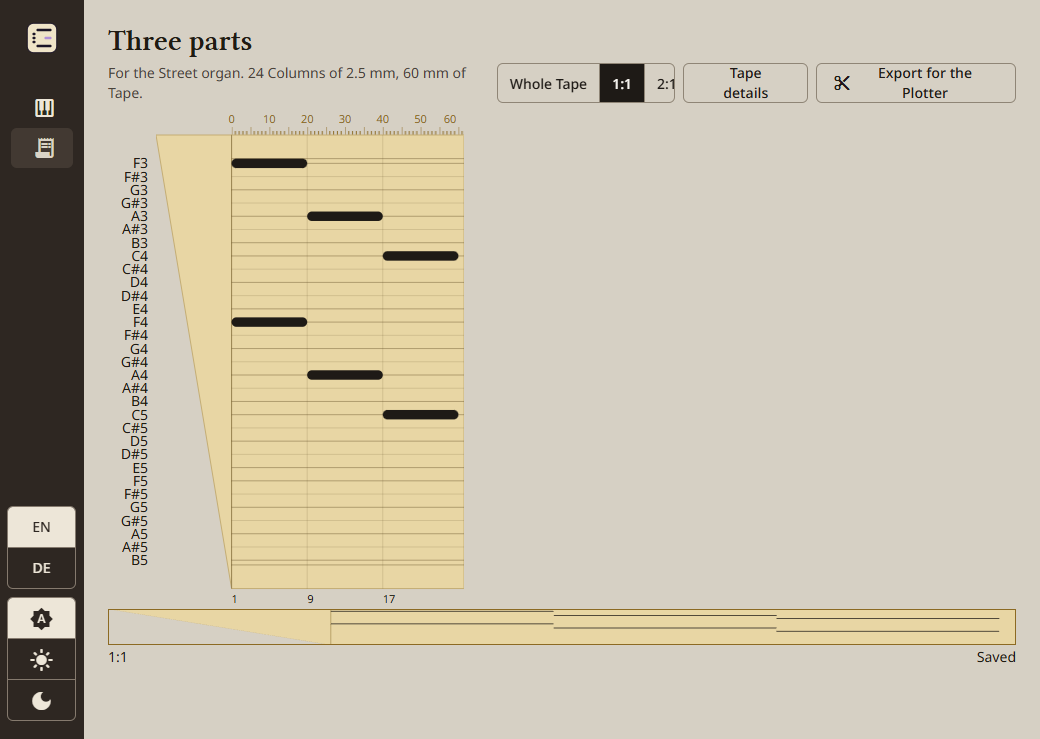
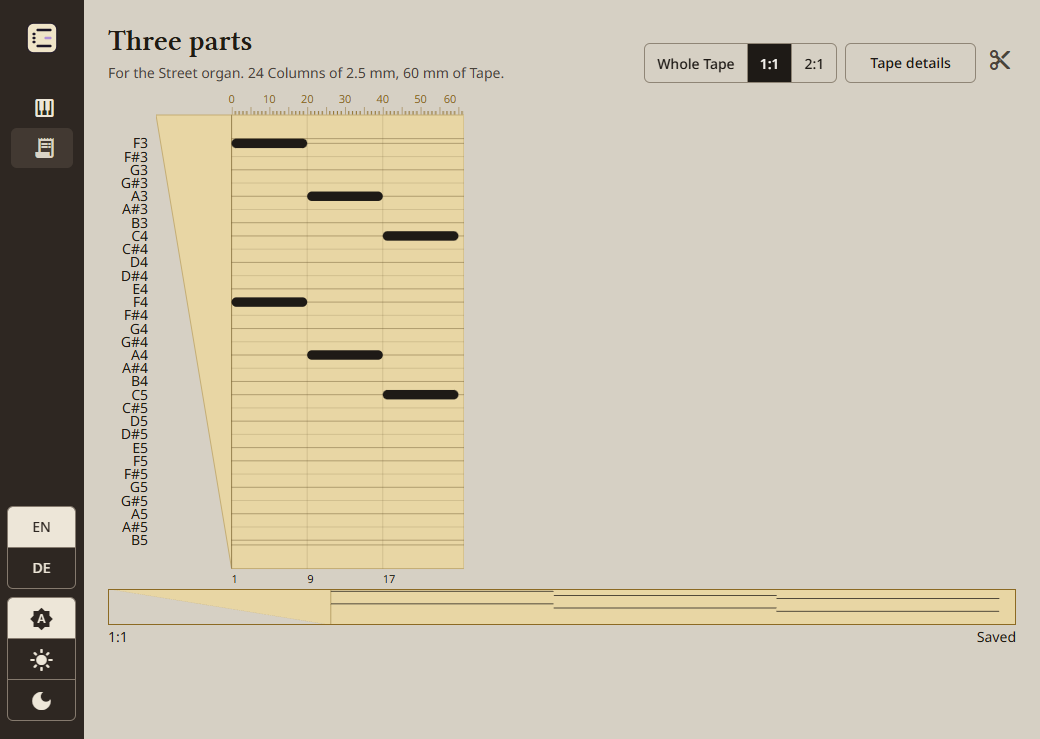
docs(design): ux-review after 003 with the problems dialog: 40/50

diff --git a/documentation/design/screens/current/ux-review.md b/documentation/design/screens/current/ux-review.md
@@ -1,10 +1,12 @@
 # UX review: running app, screens/current (2026-10-17, after #69)
 
-Previous: 38/50 (after #66), 36/50 (after #65), 36/50 (after #64), 33/50 (after #63), 30/50 (after #62), 29/50 (before #62)
+Previous: 39/50 (after 003 US1-US3), 38/50 (after #66), 36/50 (after #65), 36/50 (after #64), 33/50 (after #63), 30/50 (after #62), 29/50 (before #62)
 
 | H1 | H2 | H3 | H4 | H5 | H6 | H7 | H8 | H9 | H10 | Total |
 |----|----|----|----|----|----|----|----|----|-----|-------|
-| 4  | 5  | 4  | 4  | 4  | 3  | 3  | 3  | 4  | 5   | 39/50 |
+| 4  | 5  | 4  | 4  | 5  | 3  | 3  | 3  | 4  | 5   | 40/50 |
+
+After 003 findings 12 and 13 (re-run 2026-10-17; new screen 08c, 14 re-checked): 40/50. H5 gains one: the export problems dialog (08c) says what is wrong in the Tape's own words ("C4 at Column 1: the Hole is 2.5 mm long, the Minimum Hole Length is 4 mm"), blocks the save dialog and offers one Close; and below 1180 px the Plotter export is a scissors icon button that keeps the head on one line (14). H8 stays: the icon-only export has a tooltip but no visible label. Findings 12 and 13 are resolved; finding 4 shows again in 08c (the "Organ saved" snackbar floats over the dialog's page). The dialog does not yet say how to fix the Tape (restore the Organ's hole diameter or bring the Song onto a new Tape), a minor gap, no defect.
 
 After 003 US1-US3 (Tape view with the Lead-in diagonal, the Lead-in row in Tape details, enabled "Export for the Plotter"; re-run 2026-10-17): score unchanged at 39/50. The diagonal Lead-in reads well in 08, 14 and 15 and Lead-in 20 mm appears in the details; the Plotter export is a clear secondary-style head button. No screenshot exists for the export problems dialog, so it is not scored. New findings 11 to 13 below.
 
@@ -24,8 +26,8 @@ After #66 (Organ and Tape lists as ledgers: Tape Bed miniature and facts line, T
 9. **[sev 2] H8 - 12, 13, 14** - The compact rail has icon-only nav and stacked toggles without visible labels; disabled Save and the "Saved on this computer" note are low contrast. Tag: new.
 10. **[sev 1] H3 - 13** - At 1024x700 the second Pipe rack column is clipped at the right edge. Tag: new.
 11. **[sev 2] H6 - 08, 14, 15** - The drawing shows no end cut: the Tape ends in a plain straight edge after Column 24, and the Lead-in diagonal has no label in the drawing. Fix: draw the end cut (and a "Lead-in 20 mm" label) so the drawing matches what the Plotter cuts. Tag: new (003).
-12. **[sev 2] H2 - screens script** - No screenshot of the export problems dialog (nor of a Tape with export problems), so it cannot be reviewed. Fix: add the dialog to `ux:screens` as 08c. Tag: new (003).
-13. **[sev 2] H7 - 15** - In the German UI the Organ name "Street organ" and the part names are English sample data, fine, but the "Export for the Plotter" button wraps at 1024 px (14) next to "Tape details". Fix: shorten or icon-plus-tooltip below 1180 px. Tag: new (003, relates to finding 2).
+12. **[resolved, sev 2] H2 - screens script** - No screenshot of the export problems dialog (nor of a Tape with export problems), so it cannot be reviewed. Fix: add the dialog to `ux:screens` as 08c. Tag: new (003).
+13. **[resolved, sev 2] H7 - 15** - In the German UI the Organ name "Street organ" and the part names are English sample data, fine, but the "Export for the Plotter" button wraps at 1024 px (14) next to "Tape details". Fix: shorten or icon-plus-tooltip below 1180 px. Tag: new (003, relates to finding 2).
 
 ## Strengths
 - The editor fits one screen: Tape Bed (fields in a two-column grid, fit sentence, drawing) left, scrolling Pipe rack right, action bar always in view (H3).

diff --git a/specs/003-punch-a-tape/tasks.md b/specs/003-punch-a-tape/tasks.md
@@ -514,10 +514,10 @@ check that no text is shown untranslated.
   `TAPE.VIEW.EXPORT`; the page head's actions stay on one line at 1024×700 and no zoom button is
   clipped (finding 13).
 - [x] T054 Implement T053 in the Tape view (same breakpoint as the rail) until it is green.
-- [ ] T055 Add a screenshot `08c-tape-view-export-problems.png` of the export problems dialog to
+- [x] T055 Add a screenshot `08c-tape-view-export-problems.png` of the export problems dialog to
   `npm run ux:screens` (a Tape whose Organ's hole diameter was raised after the Tape was made)
   (finding 12).
-- [ ] T056 Re-run `npm run ux:screens` and the `ux-review` skill on 08c and 14; record the score.
+- [x] T056 Re-run `npm run ux:screens` and the `ux-review` skill on 08c and 14; record the score.
 
 Not taken into the slice: a "Lead-in 20 mm" label in the drawing (finding 11, new scope). The
 straight end edge is the end cut by spec, so that part of finding 11 is not a defect.
